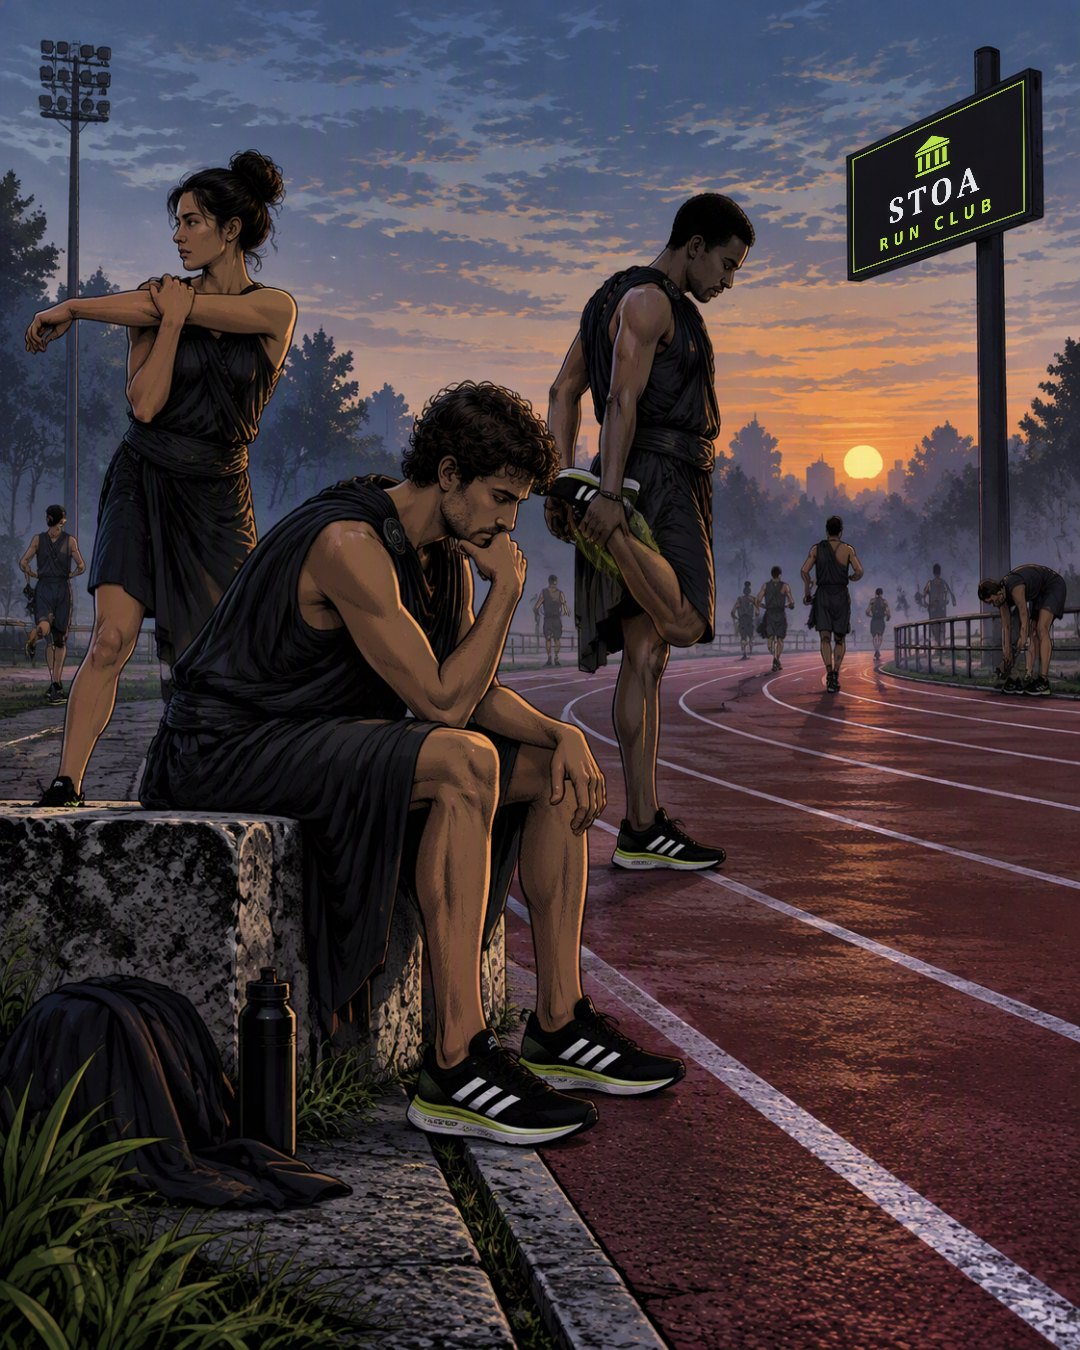
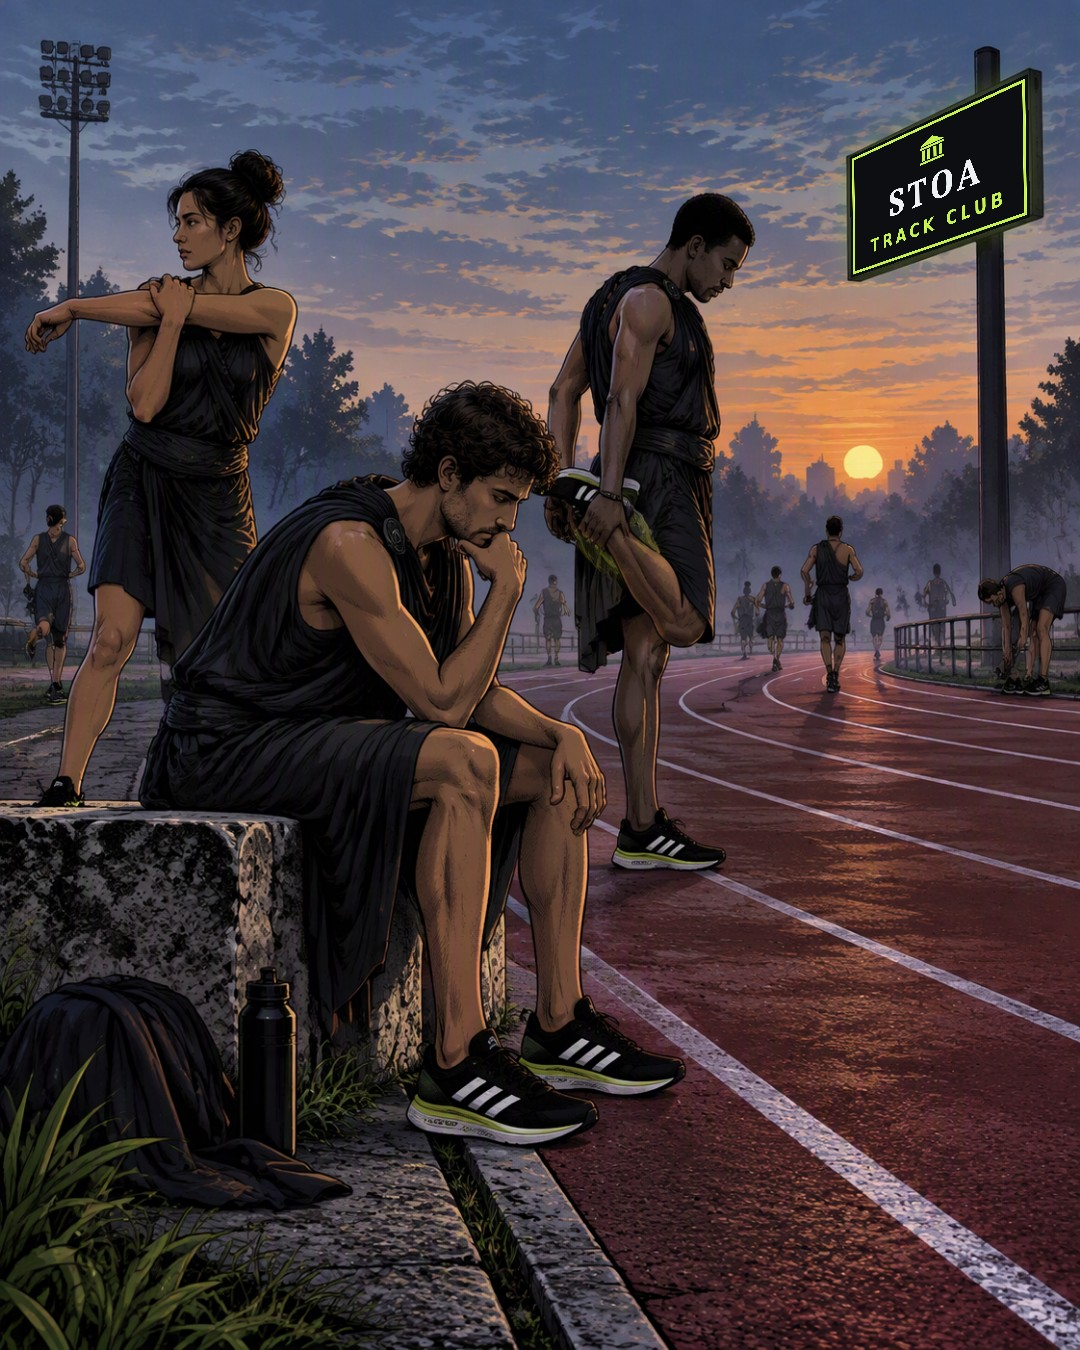
Add files via upload

Changed region(s): [[0.7639, 0.0622, 0.9778, 0.2178]]

diff --git a/site-strava/assets/app.js b/site-strava/assets/app.js
@@ -263,7 +263,7 @@
 
   // ---------- imagem para Stories (1080×1920)
   const DIAS = ["Domingo", "Segunda", "Terça", "Quarta", "Quinta", "Sexta", "Sábado"];
-  // ---------- marca Stoa Run Club nos cards
+  // ---------- marca Stoa Track Club nos cards
   async function loadCinzel() {
     if (!document.querySelector("link[data-cinzel]")) {
       const l = Object.assign(document.createElement("link"), {
@@ -283,7 +283,7 @@
       .forEach(([a, b, c, d]) => g.fillRect(a, b, c, d));
     g.restore();
   }
-  // pórtico + STOA RUN CLUB à esquerda, nome do atleta à direita
+  // pórtico + STOA TRACK CLUB à esquerda, nome do atleta à direita
   function drawBrand(g, W, P, C, spaced) {
     drawPortico(g, P - 6, 78, 92, C.accent);
     g.textBaseline = "alphabetic";
@@ -291,7 +291,7 @@
     spaced("STOA", P + 100, 150, 4);
     const sw = g.measureText("STOA").width + 4 * 4;
     g.fillStyle = C.accent; g.font = '700 34px "Barlow Condensed", "Arial Narrow", sans-serif';
-    spaced("RUN CLUB", P + 100 + sw + 16, 149, 7);
+    spaced("TRACK CLUB", P + 100 + sw + 16, 149, 7);
     const name = ($("#brand-name")?.textContent || document.querySelector(".brand span:last-child")?.textContent || "").trim().toUpperCase();
     if (name) {
       g.fillStyle = C.muted; g.font = '700 30px "Barlow Condensed", "Arial Narrow", sans-serif';
